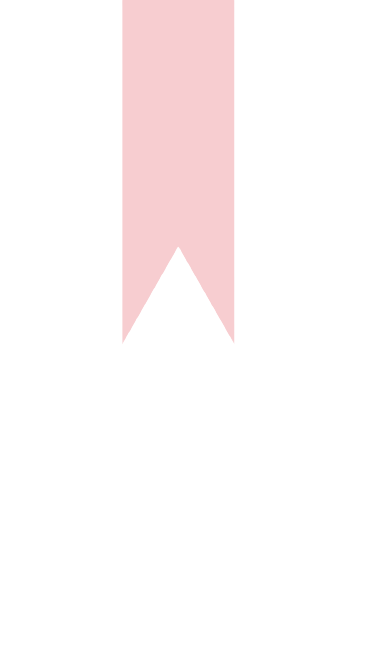
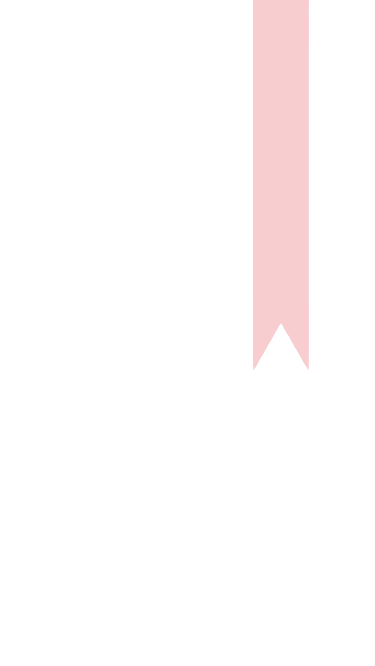
home page & navbar

Changed region(s): [[0.3227, 0.0, 0.6453, 0.5105], [0.6747, 0.0, 0.8213, 0.5706]]

diff --git a/website/static/style.css b/website/static/style.css
@@ -108,16 +108,107 @@
 @media screen and (max-width: 400px) {
     #home-body {
         background-color: white;
+        overflow-y: hidden;
     }
 
+    /* navigation bar */
+    .bottom-nav {
+        position: fixed;
+        top: 90vh;
+        width: 100%;
+        height: auto;
+        padding-top: 0.25em;
+        padding-bottom: 0.25em;
+        background-color: rgba(255, 218, 218, 0.9);
+        justify-content: center;
+    }
+
+    /* list of nav items */
+    .nav-list {
+        display: inline-block;
+        text-decoration: none;
+        color: white;
+        justify-content: center;
+        /* left: -10%; */
+    }
+
+    /* nav items */
+    .nav-list-item {
+        display: inline-block;
+        text-decoration: none;
+        color: white;
+        justify-content: center;
+    }
+
+    /* navbar images */
+    .nav-img {
+        width: 54px;
+        height: 54px;
+        border-radius: 50%;
+        margin: 2px;
+    }
+
+    .nav-img:hover {
+        box-shadow: 3px 2px;
+        color: pink;
+        /* width: 52px;
+        height: 52px; */
+    }
+    
+
+    /* div holding "Find your..." text & button */
+    #find-your-div {
+        position: relative;
+        top: 43vh;
+        padding: 3vh;
+        padding-left: 4vh;
+    }
+
+    /* bookmark div that holds the img of a ribbon/bookmark */
+    #bookmark-div {
+        position: fixed;
+        width: 10%;
+        left: -10%;
+        top: -20%;
+        z-index: -1;
+    }
+
+    /* "on page 14" button */
+    #get-booked-button {
+        background-color: pink;
+        color: white;
+        padding-top: 0.5em;
+        padding-bottom: 0.5em;
+        padding-left: 3em;
+        padding-right: 3em;
+        border-radius: 7px;
+        border-color: transparent;
+        font-family: 'Inter', sans-serif;
+        font-weight: 600;
+    }
+
+    #get-booked-button:hover {
+        background-color: black;
+        box-shadow: 5px 10px;
+        color: #ffe2e4;
+    }
+
+    /* text that is changing */
     #changing-text-span {
         color: pink;
-        font-family: 'Concert One', cursive;
+        font-family: 'Inter', sans-serif;
+        font-weight: 800;
     }
 
+    /* "Find your"   "charming" text */
+    #find-your-h1 {
+        font-family: 'Inter', sans-serif;
+    }
+
+    /* things to make the text change */
     #changing-text-span:after {
         content: "princex";
-        animation: change 4s linear infinite;
+        animation: change 5s linear infinite;
     }
 
     @keyframes change {

diff --git a/website/templates/home.html b/website/templates/home.html
@@ -4,6 +4,10 @@
 
 {% block content %}
 <body id="home-body">
+    <!-- Bookmark Image -->
+    <div id="bookmark-div">
+        <img src="{{ url_for('static', filename='ribbon-bg.png') }}" alt="image of pink ribbon/bookmark" />
+    </div>
 
     <!-- Div with changing text -->
     <div id="find-your-div">
@@ -12,8 +16,33 @@
             <br>
             Charming
         </h1>
-        <p id="on-page-p"><i>on page 14</i></p>
+        <br>
+        <a href="/matches"><button id="get-booked-button">on Page 14</button></a>
     </div>
+
+    <!-- Navigation bar (for the bottom of the screen) -->
+    <nav class="bottom-nav">
+        <ul class="nav-list">
+            <li class="nav-list-item">
+                <a href="/home"><img class="nav-img" src="{{ url_for('static', filename='home-icon.png') }}" alt="home icon"></a>
+            </li>
+            <li class="nav-list-item">
+                <a href="/messages"><img class="nav-img" src="{{ url_for('static', filename='message-icon.png') }}" alt="chat bubble icon"></a>
+            </li>
+            <li class="nav-list-item">
+                <a href="/matches"><img class="nav-img" src="{{ url_for('static', filename='bmrk.png') }}" alt="bookmark icon"></a>
+            </li>
+            {% if user.profile_pic %}
+                <li class="nav-list-item">
+                    <a href="/profile"><img class="nav-img" src="{{ url_for('static', filename=user.profile_pic) }}" alt="profile icon"></a>
+                </li>
+            {% else %}
+                <li class="nav-list-item">
+                    <a href="/profile"><img class="nav-img" src="{{ url_for('static', filename='prof.png') }}" alt="profile icon"></a>
+                </li>
+            {% endif %}
+        </ul>
+    </nav>
 
 
 </body>

diff --git a/website/templates/base.html b/website/templates/base.html
@@ -29,14 +29,14 @@
         {% if messages %}
             {% for category, message in messages %}
                 {% if category == 'error' %}
-                    <div class="alert alert-danger alter-dismissable fade show" role="alert">
+                    <div class="alert alert-danger alter-dismissable fade show" role="alert" style="position: absolute; z-index: 2;  width: 100%; padding-top: 1.25em;">
                         {{ message }}
                         <button type="button" class="close" data-dismiss="alert">
                             <span aria-hidden="true">&times;</span>
                         </button>
                     </div>
                 {% else %}
-                    <div class="alert alert-success alter-dismissable fade show" role="alert">
+                    <div class="alert alert-success alter-dismissable fade show" role="alert" style="position: absolute; z-index: 2; width: 100%; padding-top: 1.25em;">
                         {{ message }}
                         <button type="button" class="close" data-dismiss="alert">
                             <span aria-hidden="true">&times;</span>

diff --git a/website/auth.py b/website/auth.py
@@ -2,12 +2,13 @@ from flask import Blueprint, render_template, request, flash, redirect, url_for
 from .models import User, Matches, BookQuotes
 from . import db
 import os
+from .__init__ import create_app
 from .goodreadscraper import get_quote
 from werkzeug.security import generate_password_hash, check_password_hash
 from werkzeug.utils import secure_filename
 import uuid as uuid
-
 from flask_login import login_user, login_required, logout_user, current_user
+import shutil
 
 auth = Blueprint('auth', __name__)
 
@@ -33,8 +34,6 @@ def list_to_string(los):
 #--------------------------------------------------------------------
 # LOGIN PAGE
 #--------------------------------------------------------------------
-
-# try with aaa@gmail.com    and   12345678
 
 @auth.route('/login', methods=['GET', 'POST'])
 def login():
@@ -63,11 +62,11 @@ def login():
                 login_user(user, remember=True)
                 return render_template("home.html", user=user)
             else:
-                flash('Incorrect username or password, try again.', category='error')
+                flash('Incorrect email or password, try again.', category='error')
 
         # user with that email doesnt exist
         else: 
-            flash('Email does not exist', category='error')
+            flash('Incorrect email or password, try again.', category='error')
     return render_template("login.html")
 
 
@@ -127,9 +126,8 @@ def signup():
         # date & time randomizing name of filename so no two users
         # have the same profile pic filename
         pic_name = str(uuid.uuid1()) + "_" + pic_filename
-        profile_pic.save('/static/profilepics/' + secure_filename(profile_pic.filename))
-        # profile_pic.save(os.path.join('/static/profilepics/' + pic_name))
-        # print(pic_name)
+        profile_pic.save(pic_name)
+        shutil.move(profile_pic, f'/static/')
 
 
         # seeing if a user exists with the given email

diff --git a/website/models.py b/website/models.py
@@ -33,7 +33,7 @@ class User(db.Model, UserMixin):
     fav_book = db.Column(db.String())
     fav_book_auth = db.Column(db.String())
     genre = db.Column(db.String()) # the genre that best describes them
-    profile_pic = db.Column(db.String(), nullable=True, default="default.png")
+    profile_pic = db.Column(db.String(), nullable=True)
     # matches = db.relationship('Matches')
 
 

diff --git a/website/views.py b/website/views.py
@@ -29,7 +29,6 @@ def home():
     """ the home page of the website
     Returns: renders home.html
     """
-    print(current_user.pronouns)
     return render_template("home.html", user=current_user)
 
 
